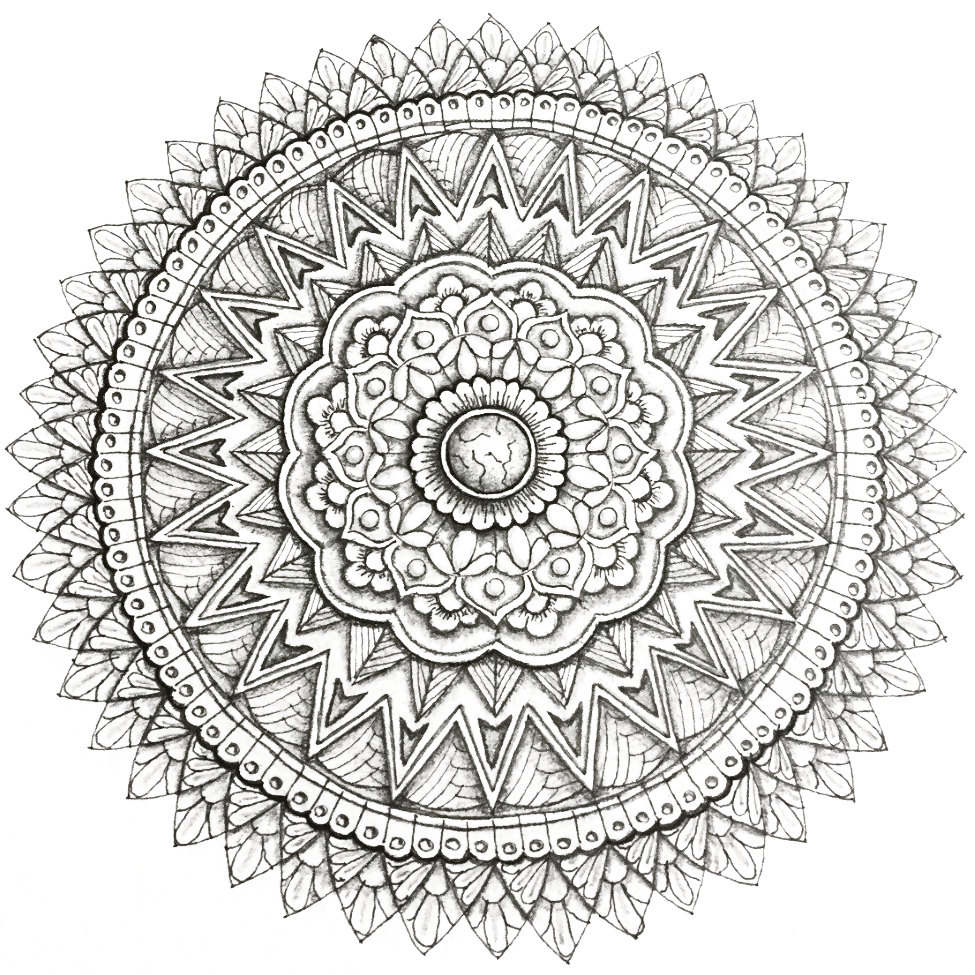
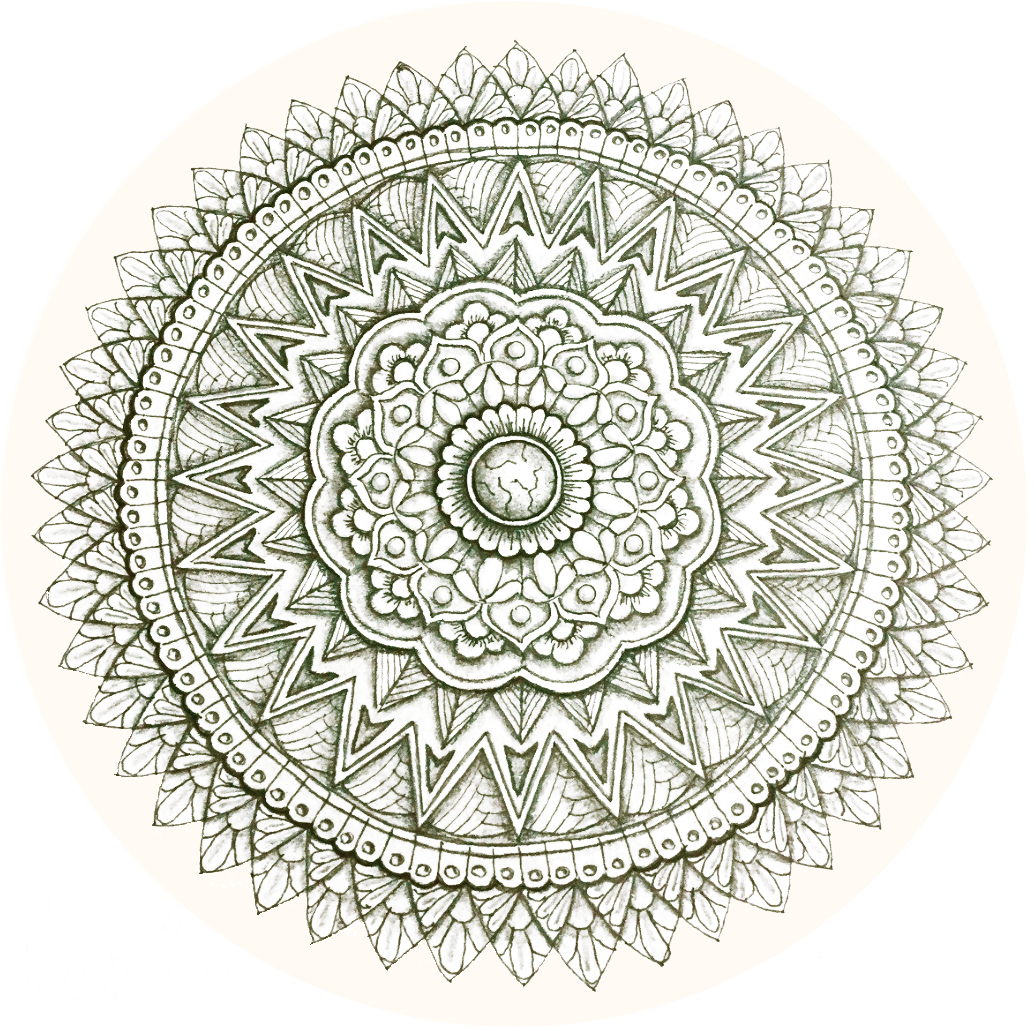
mandala ge-tuned, css opgekuisd, ...

diff --git a/style.css b/style.css
@@ -9,18 +9,22 @@
     --afstand-groot: 1.4rem;
     --afstand-klein: 0.6rem;
     --kleur-achtergrond: rgb(255, 251, 244);
-    --kleur-tekst: rgb(83, 35, 1);
+    --kleur-tekst: rgb(83, 53, 1);
+    --kleur-tekst2: #525137;
 }
 
 @media screen and (min-width: 600px) {
+    html {font-size: 20px;}
     :root {
         --breedte-mandala: 28rem;
     }
+
 }
 
 h1 {font-size: 4rem; font-family: "Slackside One", cursive;}
 a {color: var(--kleur-tekst);}
-p {font-size: 1rem; line-height: 1.6rem;} 
+p {font-size: 1rem; line-height: 1.2rem;} 
+
 
 body {
     width: 100vw;
@@ -41,7 +45,7 @@ body#inspiraties main {padding: 0 var(--afstand-klein)}
 body#inspiraties section:first-of-type {
     display: flex;
     flex-direction: column;
-    justify-content: space-around;
+    justify-content: space-between;
 }
 body#inspiraties section:first-of-type *:not(img) {
     padding: 0 var(--afstand-klein);
@@ -52,7 +56,6 @@ body#inspiraties section:first-of-type a {
     margin-bottom: var(--afstand-klein);
 }
 
-    
 
 header {
     width: 100%;
@@ -66,82 +69,38 @@ header {
     padding: 0 var(--afstand-klein);
 }
 
-h1 a {
-    text-decoration: none;
-}
+h1 a {text-decoration: none;color: var(--kleur-tekst2);}
 
-nav {width: 100%; max-width: var(--breedte-max); display: flex; justify-content:space-evenly;
-}
+nav {width: 100%; max-width: var(--breedte-max); display: flex; justify-content:space-evenly;}
+nav a {width: calc(100% / 3); text-align: center; font-size: 1.1rem;}
+nav a.actief {text-decoration: none; color: var(--kleur-tekst2);}
 
-nav a {
-    width: calc(100% / 3);
-    text-align: center;
-    font-size: 1.1rem;
-    /* font-family: "Slackside One", cursive; */
-}
+main {width: 100%; min-height: calc(100svh - var(--hoogte-header) - var(--hoogte-footer)); padding: var(--afstand-klein); display: flex; flex-direction: column;}
+main#landing {padding: 0 var(--afstand-klein);}
 
-nav a.actief {
-    text-decoration: none;
-    font-weight: 600;
-}
+section { width: 100%; max-width: var(--breedte-max); margin: 0 auto;}
 
-main {
-    width: 100%;
-    min-height: calc(100svh - var(--hoogte-header) - var(--hoogte-footer));
+section.vullen {min-height: calc(100svh); display: flex; flex-direction: column; justify-content: center; align-items: center;}
+section.vullen.boven {min-height: calc(100svh - var(--hoogte-header) - var(--afstand-klein));}
+section.vullen.beneden {min-height: calc(100svh - var(--hoogte-footer) - var(--afstand-klein));}
 
-    padding: var(--afstand-klein);
-}
-
-@media screen and (min-width: 690px) {
-    main { padding: var(--afstand-groot) var(--afstand-klein);}
-}
-
-main#landing {
-    padding: 0 var(--afstand-klein);
-}
-
-main section.vullen {
-    min-height: calc(100svh);
-    display: flex;
-    flex-direction: column;
-    justify-content: center;
-    align-items: center;
-}
-
-main section.vullen.boven {min-height: calc(100svh - var(--hoogte-header));}
-main section.vullen.beneden {min-height: calc(100svh - var(--hoogte-footer));}
-
-section#mandala a {display: flex; margin: var(--afstand-groot) 0; justify-content: center;}
+section#mandala {display: flex; justify-content: center; align-items: center;}
+section#mandala a { border-radius: 50%; display: block; width: var(--breedte-mandala); height: var(--breedte-mandala);}
+section#mandala a {position: relative; margin: var(--afstand-groot) 0; cursor: url('/lotus.cur'), auto;}
+section#mandala a {cursor: url('/lotus.cur'), auto;}
+section#mandala a>img {position: absolute;}
+section#mandala a>img:last-of-type{ width: var(--breedte-mandala); height: var(--breedte-mandala); z-index: -10; padding: var(--afstand-klein); border-radius: 100%; opacity: 0; transition: opacity 1s ease-out;}
+section#mandala a:hover>img:last-of-type {opacity: 0.5; transition: opacity 3s ease-in;}
 
 section.afbeelding {width: 100%; display: flex; justify-content: center;}
 
 p {width: 100%; text-align: left; margin: var(--afstand-klein) 0;}
-@media screen and (min-width: 600px) {
-    section {max-width: var(--breedte-max); margin: 0 auto;}
-    p { text-align: center;} 
-}
+section.centreren p {text-align: center;}
 
-section#mandala a img {width: var(--breedte-mandala); -webkit-animation:spin 356s linear infinite; -moz-animation:spin 356s linear infinite; animation:spin 356s linear infinite;}
+section#mandala a>img {width: var(--breedte-mandala); -webkit-animation:spin 356s linear infinite; -moz-animation:spin 356s linear infinite; animation:spin 356s linear infinite; border-radius: 50%;}
 @-moz-keyframes spin { 100% { -moz-transform: rotate(360deg); } }
 @-webkit-keyframes spin { 100% { -webkit-transform: rotate(360deg); } }
 @keyframes spin { 100% { -webkit-transform: rotate(360deg); transform:rotate(360deg); } }
 
-footer {
-    width: 100%;
-    height: var(--hoogte-footer);
-
-    display: flex;
-    align-items: center;
-
-    padding: 0 var(--afstand-klein);
-}
-
-footer p {
-    font-size: 0.9rem;
-    text-align: center;
-    font-weight: 300;
-}
-
-@media screen and (min-width: 600px) {
-    footer { justify-content: center;} 
-}
+footer {width: 100%; max-width: var(--breedte-max); height: var(--hoogte-footer); margin: 0 auto; display: flex; align-items: center; padding: 0 var(--afstand-klein);}
+footer p { font-size: 0.9rem; text-align: center; font-weight: 300;}

diff --git a/index.html b/index.html
@@ -8,6 +8,9 @@
     <title>Turiya</title>
 </head>
 <body id="landing">
+    <div class="snap">
+
+    </div>
     <header>
         <h1><a href="/">Turiya</a></h1>
         <nav>
@@ -20,29 +23,30 @@
         <section id="mandala" class="vullen boven">
             <a href="/inspiratie.html">
                 <img src="media/cirkel-transparant.png" alt="mandala">
+                <img src="media/trippen.gif" alt="">
             </a>
         </section>
-        <section class="vullen beneden">
+        <section class="vullen beneden centreren">
             <p>De naam ‘Turiya’ komt uit het sanskriet en staat voor ‘zuiver bewustzijn’.
-            Het is de stralende, lege ruimte van het bewustzijn, onze oorspronkelijke plek, onze eigenlijke thuis...</p>
+            <br>Het is de stralende, lege ruimte van het bewustzijn, onze oorspronkelijke plek, onze eigenlijke thuis...</p>
             <p>‘Turiya’ staat meteen ook voor de wijze waarop ik het lichaamswerk wil benaderen en voor hoe ik in het leven tracht te staan.</p>
             <p>Al lijkt de weg soms lang, er is nergens waar we heen moeten. We zijn er al.
-            Vaak zijn het net alle ‘moeten’ en alle zoeken die onze knopen,
-            fysiek, emotioneel, mentaal, spiritueel, deden ontstaan.</p>
+            <br>Vaak zijn het net alle ‘moeten’ en alle zoeken die onze knopen
+            - fysiek, emotioneel, mentaal, spiritueel - doen ontstaan.</p>
             <p>Ik nodig je uit om langs te komen voor een behandeling
-            en te gaan liggen op die open plek
-            te midden van het leven
+            <br>en te gaan liggen op die open plek
+            <br>te midden van het leven
             waar we thuis zijn, waar we diepe veiligheid ervaren</p>
             <p>om samen met de adem en zachte aanraking
             te ontmoeten wat om aandacht vraagt.</p>
             <p>Er niets mee te hoeven, er niets mee te doen
-            dan te vertrouwen,
-            toe te laten zich te ont-wikkelen
-            en te zinken in je oorspronkelijke natuur. </p>
+            <br>dan te vertrouwen,
+            <br>toe te laten zich te ont-wikkelen
+            <br>en te zinken in je oorspronkelijke natuur. </p>
         </section>
     </main>
     <footer>
-        <p>liefde ☀ geen cookies ☀ <a href="https://kurtgustil.be/" target="_blank">kurtgustil websites</a></p>
+        <p>liefde ☼ geen cookies ☼ <a href="https://kurtgustil.be/" target="_blank">kurtgustil websites</a></p>
     </footer>
 </body>
 </html>

diff --git a/thomas.html b/thomas.html
@@ -20,6 +20,7 @@
         <section id="mandala">
             <a href="/inspiratie.html">
                 <img src="media/cirkel-transparant.png" alt="mandala">
+                <img src="media/trippen.gif" alt="">
             </a>
         </section>
         <p>Tekst over het Thomas</p>

diff --git a/praktisch.html b/praktisch.html
@@ -20,6 +20,7 @@
         <section id="mandala">
             <a href="/inspiratie.html">
                 <img src="media/cirkel-transparant.png" alt="mandala">
+                <img src="media/trippen.gif" alt="">
             </a>
         </section>
         <p>Praktische info</p>

diff --git a/shiatsu.html b/shiatsu.html
@@ -20,6 +20,7 @@
         <section id="mandala">
             <a href="/inspiratie.html">
                 <img src="media/cirkel-transparant.png" alt="mandala">
+                <img src="media/trippen.gif" alt="">
             </a>
         </section>
         <section id="quote">
